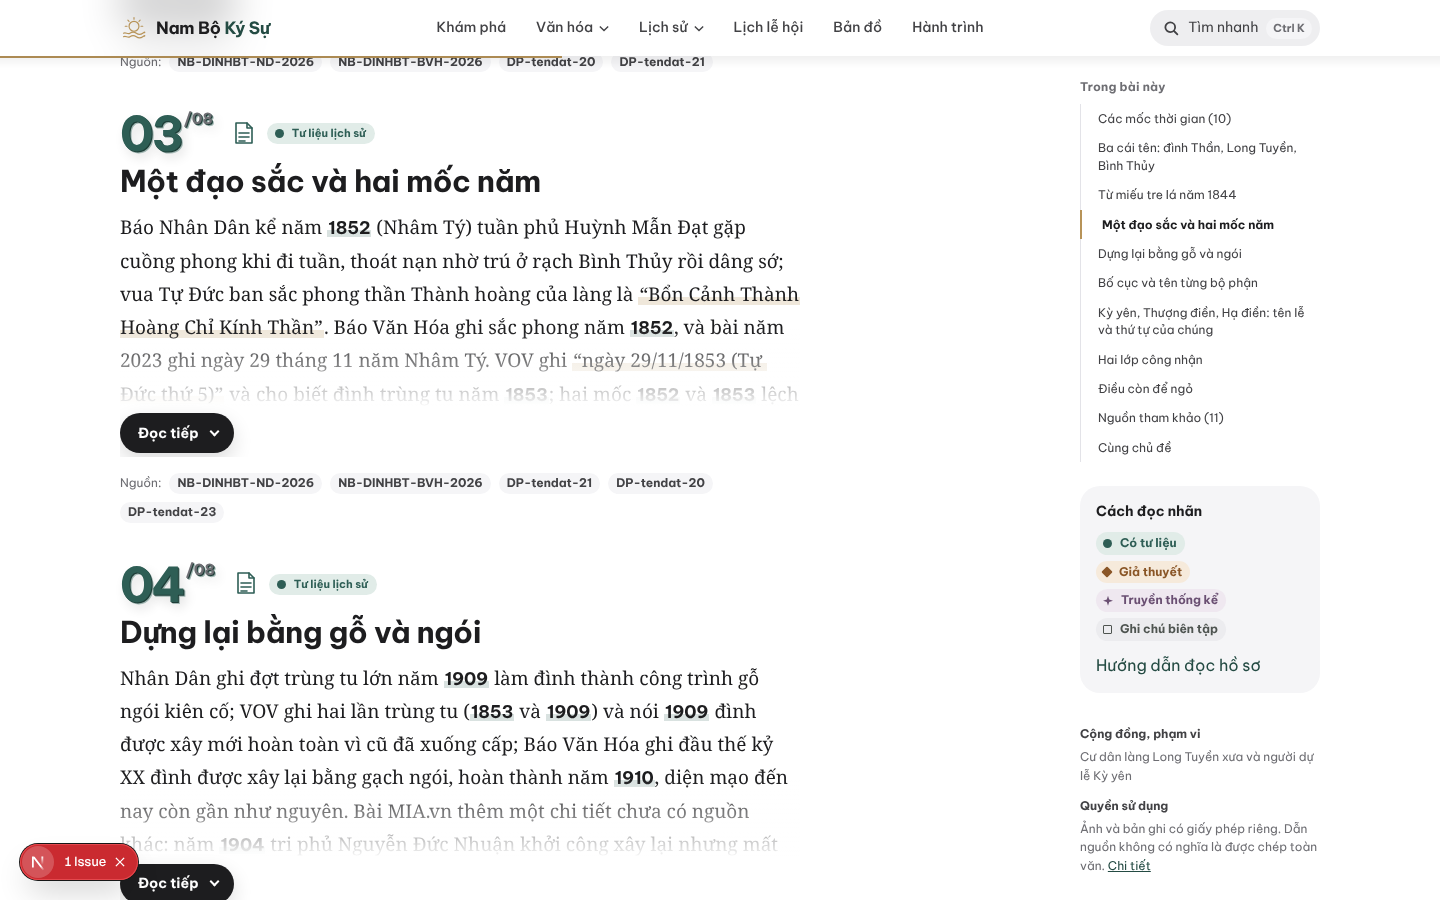
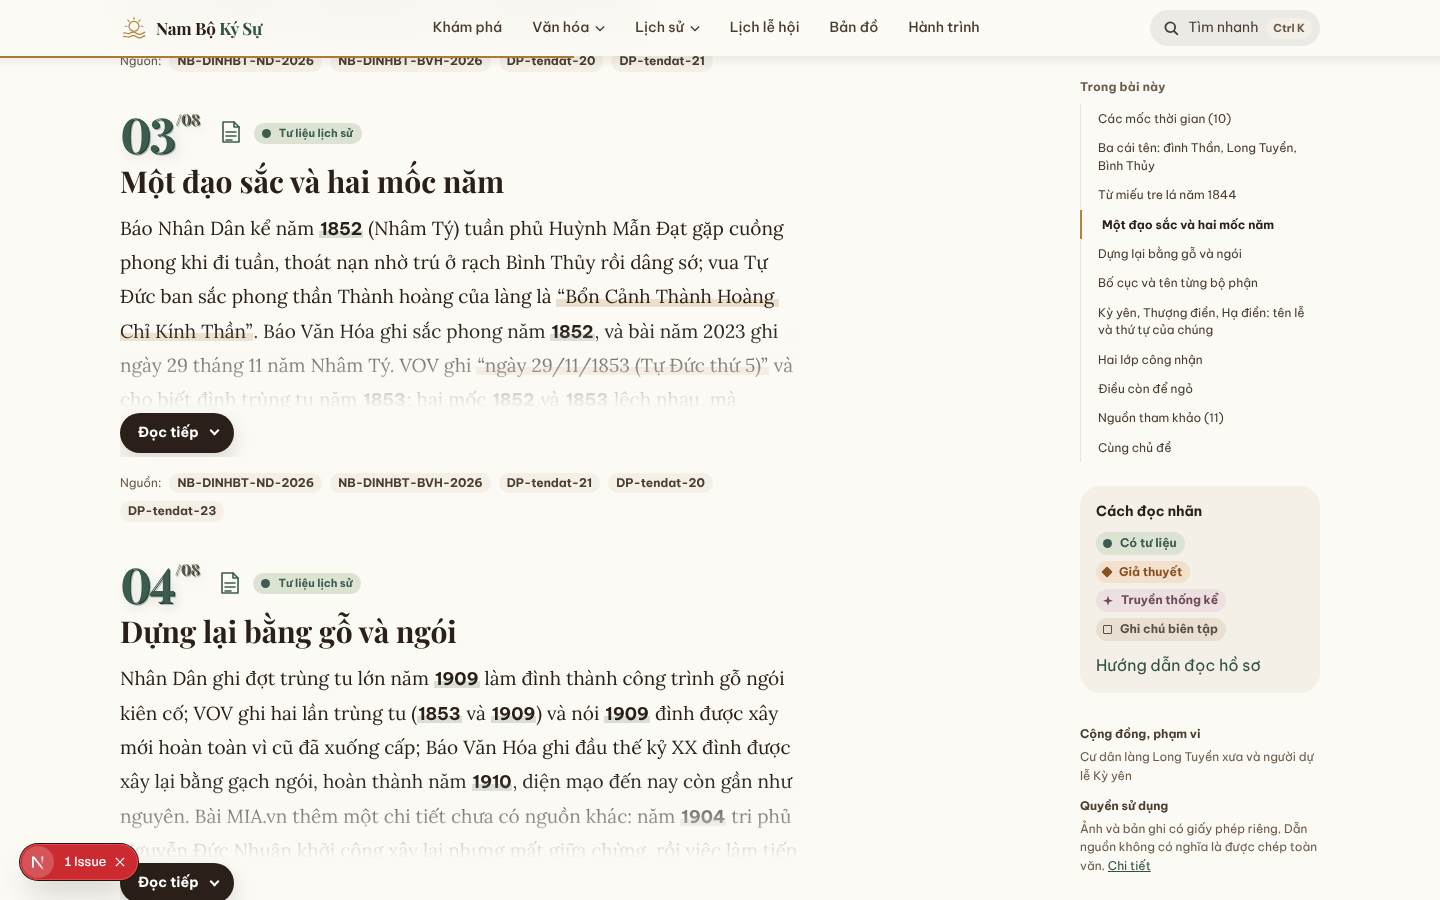
Sửa: thu gọn lời văn mỗi mục bằng component React (Foldable) để bản production không ghi đè lớp thu gọn khi hydrate
Claude-Session: https://claude.ai/code/session_01WFBFRx84MgQxEzEZ3ZDVLi

diff --git a/components/interactive/narrative-motion.tsx b/components/interactive/narrative-motion.tsx
@@ -4,51 +4,16 @@ import { usePathname } from 'next/navigation';
 
 const reduced = () => window.matchMedia('(prefers-reduced-motion: reduce)').matches;
 
-/** Chiều cao khi thu gọn, tính theo cỡ chữ đọc (khớp với .nx-text.is-folded trong narrative.css). */
-const FOLD_EM = 10;
-
-/** Mở một khối chữ đã thu gọn, có chuyển động chiều cao. */
-function unfold(box: HTMLElement, open: boolean) {
-  const btn = box.querySelector<HTMLButtonElement>('[data-fold-btn]');
-  if (open) {
-    box.style.maxHeight = `${box.scrollHeight}px`;
-    box.classList.add('is-open');
-    const done = () => { if (box.classList.contains('is-open')) box.style.maxHeight = 'none'; };
-    box.addEventListener('transitionend', done, { once: true });
-    window.setTimeout(done, 900);
-  } else {
-    box.style.maxHeight = `${box.scrollHeight}px`;
-    requestAnimationFrame(() => { box.classList.remove('is-open'); box.style.maxHeight = ''; });
-    const top = box.closest('section')?.getBoundingClientRect().top ?? 0;
-    if (top < 0) box.closest('section')?.scrollIntoView({ behavior: reduced() ? 'auto' : 'smooth', block: 'start' });
-  }
-  if (btn) { btn.setAttribute('aria-expanded', String(open)); btn.querySelector('span')!.textContent = open ? 'Thu gọn' : 'Đọc tiếp'; }
-}
-
 /**
- * Thu gọn lời văn dài của mỗi mục: chỉ hiện vài dòng đầu, bấm "Đọc tiếp" để mở.
- * Không JS thì không thu gì. Bấm liên kết tới một mục, một nguồn thì mục, nguồn đó tự mở.
+ * Bấm liên kết tới một mục, một nguồn thì mục (thu gọn trong Foldable), nguồn (details) đó tự mở.
  */
 function setupFolds() {
-  const boxes = [...document.querySelectorAll<HTMLElement>('[data-fold]')];
-  for (const box of boxes) {
-    if (box.dataset.foldReady) continue;
-    box.dataset.foldReady = '1';
-    const limit = parseFloat(getComputedStyle(box).fontSize) * FOLD_EM;
-    if (!limit || box.scrollHeight < limit * 1.3) continue;
-    box.classList.add('is-folded');
-    const btn = box.querySelector<HTMLButtonElement>('[data-fold-btn]');
-    if (btn) btn.hidden = false;
-  }
   const onClick = (e: MouseEvent) => {
     const t = e.target instanceof Element ? e.target : null;
-    const btn = t?.closest<HTMLButtonElement>('[data-fold-btn]');
-    if (btn) { const box = btn.closest<HTMLElement>('[data-fold]'); if (box) unfold(box, !box.classList.contains('is-open')); return; }
     const a = t?.closest<HTMLAnchorElement>('a[href^="#"]');
     const target = a ? document.getElementById(decodeURIComponent(a.getAttribute('href')!.slice(1))) : null;
     if (!target) return;
-    const box = target.querySelector<HTMLElement>('[data-fold].is-folded:not(.is-open)');
-    if (box) unfold(box, true);
+    target.querySelector('[data-fold]')?.dispatchEvent(new Event('nx-unfold'));
     const det = target.querySelector('details');
     if (det && target.id.startsWith('nguon-')) det.open = true;
   };

diff --git a/components/interactive/foldable.tsx b/components/interactive/foldable.tsx
@@ -1,0 +1,54 @@
+'use client';
+import { useEffect, useRef, useState } from 'react';
+
+/** Chiều cao khi thu gọn, tính theo cỡ chữ đọc (khớp với .nx-text.is-folded trong narrative.css). */
+const FOLD_EM = 10;
+
+/**
+ * Lời văn một mục, thu còn vài dòng đầu nếu dài; nút "Đọc tiếp" mở có chuyển động chiều cao.
+ * Trạng thái do React giữ (không sửa thẳng DOM), nên không bị ghi đè khi hydrate.
+ * Không JS thì hiện đủ. Liên kết tới mục (#muc-n) phát sự kiện `nx-unfold` để mở mục đó.
+ */
+export function Foldable({ children }: { children: React.ReactNode }) {
+  const box = useRef<HTMLDivElement>(null);
+  const [can, setCan] = useState(false);
+  const [open, setOpen] = useState(false);
+  const [maxH, setMaxH] = useState<string | undefined>(undefined);
+
+  useEffect(() => {
+    const el = box.current;
+    if (!el) return;
+    const raf = requestAnimationFrame(() => {
+      const limit = parseFloat(getComputedStyle(el).fontSize) * FOLD_EM;
+      if (el.scrollHeight >= limit * 1.3) setCan(true);
+    });
+    const onUnfold = () => toggle(true);
+    el.addEventListener('nx-unfold', onUnfold);
+    return () => { cancelAnimationFrame(raf); el.removeEventListener('nx-unfold', onUnfold); };
+  });
+
+  function toggle(next: boolean) {
+    const el = box.current;
+    if (!el) return;
+    setMaxH(`${el.scrollHeight}px`);
+    if (next) {
+      setOpen(true);
+      window.setTimeout(() => setMaxH('none'), 750);
+    } else {
+      requestAnimationFrame(() => { setOpen(false); setMaxH(undefined); });
+      const section = el.closest('section');
+      if (section && section.getBoundingClientRect().top < 0) section.scrollIntoView({ behavior: window.matchMedia('(prefers-reduced-motion: reduce)').matches ? 'auto' : 'smooth', block: 'start' });
+    }
+  }
+
+  return (
+    <div ref={box} className={`nx-text ${can ? 'is-folded' : ''} ${open ? 'is-open' : ''}`} data-fold style={maxH ? { maxHeight: maxH } : undefined}>
+      {children}
+      {can && (
+        <button type="button" className="nx-fold-btn" aria-expanded={open} onClick={() => toggle(!open)}>
+          <span>{open ? 'Thu gọn' : 'Đọc tiếp'}</span><i aria-hidden="true" />
+        </button>
+      )}
+    </div>
+  );
+}

diff --git a/components/narrative.tsx b/components/narrative.tsx
@@ -1,6 +1,7 @@
 import { markText, paragraphs, voiceShift, type Milestone } from '@/lib/narrative';
 import { sectionLabels } from '@/lib/editorial-model';
 import { TimelineScrubber } from './interactive/timeline-scrubber';
+import { Foldable } from './interactive/foldable';
 
 /**
  * Các mảnh trình bày kể chuyện cho trang hồ sơ (dựng ở máy chủ, đọc được trọn vẹn khi tắt JavaScript).
@@ -27,14 +28,13 @@ export function KindGlyph({ kind }: { kind: string }) {
 /** Lời văn của một mục: tách đoạn, nhấn năm, con số có đơn vị và tên gọi trong ngoặc kép. Chữ giữ nguyên. */
 export function NarrativeText({ text, dropCap = false }: { text: string; dropCap?: boolean }) {
   return (
-    <div className="nx-text" data-fold>
+    <Foldable>
       {paragraphs(text).map((para, i) => (
         <p key={i} className={`preserve ${dropCap && i === 0 ? 'nx-dropcap' : ''}`}>
           {markText(para).map((m, j) => m.type ? <mark key={j} className={`nx-mark is-${m.type}`}>{m.text}</mark> : m.text)}
         </p>
       ))}
-      <button type="button" className="nx-fold-btn" data-fold-btn hidden aria-expanded="false"><span>Đọc tiếp</span><i aria-hidden="true" /></button>
-    </div>
+    </Foldable>
   );
 }
 
